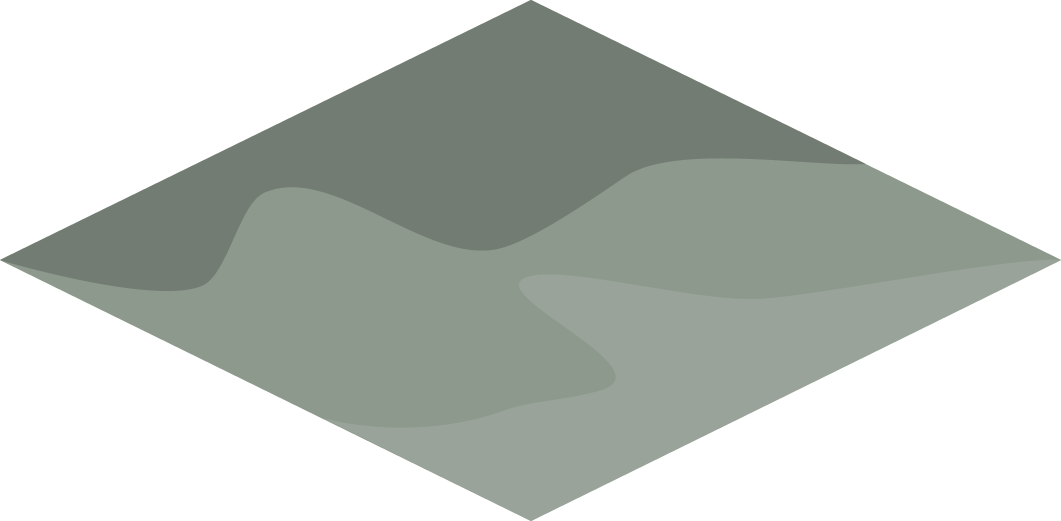
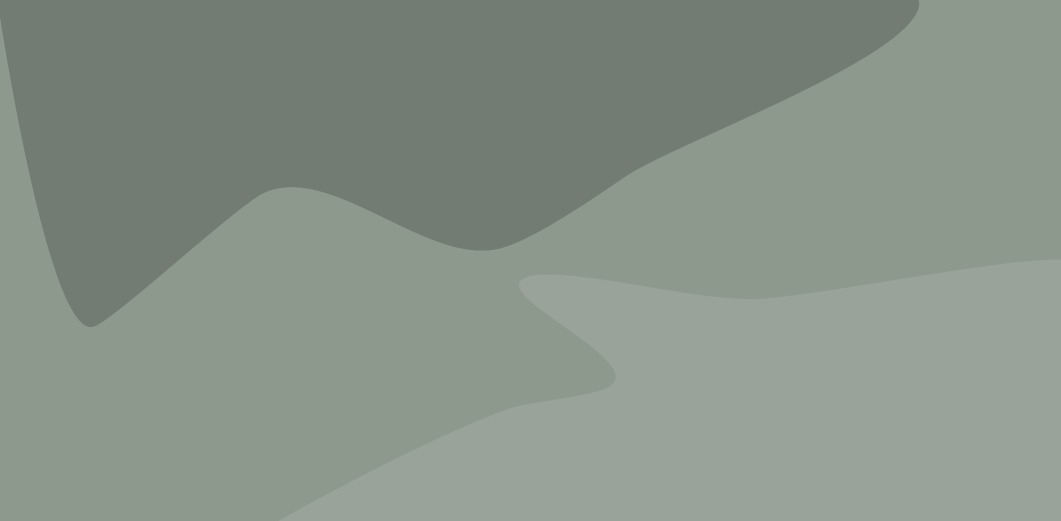
use images without rim for polygons

diff --git a/src/view/View.java b/src/view/View.java
@@ -17,7 +17,6 @@ import javafx.scene.layout.BorderPane;
 import javafx.scene.layout.VBox;
 import javafx.scene.paint.Color;
 import javafx.scene.paint.ImagePattern;
-import javafx.scene.shape.Polygon;
 import javafx.scene.text.Font;
 import javafx.stage.Stage;
 import javafx.util.Duration;
@@ -27,7 +26,6 @@ import model.Tile;
 import model.Vertex;
 
 
-import javax.swing.border.Border;
 import java.util.HashMap;
 import java.util.Map;
 
@@ -61,7 +59,8 @@ public class View {
     private MenuPane menuPane;
 
     private Map<String, Image> imageCache = new HashMap<>();
-    ObjectToImageMapping mapping;
+    private ObjectToImageMapping objectToImageMapping;
+    private Map<String, ImagePattern> imagePatternCache = new HashMap<>();
 
     private double zoomFactor = 1.0;
     private static final double MAX_SCALE = 10.0d;
@@ -73,7 +72,7 @@ public class View {
 
     public View(Stage primaryStage, BasicModel model) {
         this.stage = primaryStage;
-        mapping = new ObjectToImageMapping(model.getGamemode());
+        objectToImageMapping = new ObjectToImageMapping(model.getGamemode());
         fields = model.getFieldGridOfMap();
 
         Label isoCoordLabel = new Label();
@@ -100,7 +99,7 @@ public class View {
     }
 
     public void generateMenuPane(Controller controller){
-        menuPane = new MenuPane(controller, this, canvas, mapping);
+        menuPane = new MenuPane(controller, this, canvas, objectToImageMapping);
         borderPane.setTop(menuPane);
     }
 
@@ -205,6 +204,7 @@ public class View {
                 double deltaX = previousMouseX - mousePosX;
                 double deltaY = previousMouseY - mousePosY;
 
+                //TODO Mit scrollOnMouseDraggedReleased umsetzen bzw Maxi dazu fragen
                 if (Math.abs(deltaX) < 30 && Math.abs(deltaY) < 30 && previousMouseX != -1.0 && previousMouseY != -1.0) {
                     cameraOffsetX += deltaX;
                     cameraOffsetY += deltaY;
@@ -345,21 +345,22 @@ public class View {
         double[] xCoords = {xCoordWest, xCoordSouth, xCoordEast, xCoordNorth};
         double[] yCoords = {yCoordWest, yCoordSouth, yCoordEast, yCoordNorth};
 
-        Image groundImage;
+        ImagePattern imagePattern;
         if(heightWest < 0){
-            groundImage = getResourceForImageName(mapping.getImageNameForBuildingName("water"), tileImageWidth, tileImageHeight);
+            imagePattern = getImagePatternForGroundName("water");
         }
         else {
-            groundImage = getResourceForImageName(mapping.getImageNameForBuildingName("grass"), tileImageWidth, tileImageHeight);
+            imagePattern = getImagePatternForGroundName("grass");
         }
-        ImagePattern imagePattern = new ImagePattern(groundImage);
         gc.setFill(imagePattern);
         gc.fillPolygon(xCoords, yCoords, numberOfPoints);
         gc.strokePolygon(xCoords, yCoords, numberOfPoints);
 
-//        gc.strokeText("N: "+heightNorth+" E "+heightEast+" S "+heightSouth+" W "+heightWest, xCoordOnCanvas, yCoordOnCanvas);
+        gc.strokeText("N: "+heightNorth+" E "+heightEast+" S "+heightSouth+" W "+heightWest, xCoordOnCanvas, yCoordOnCanvas);
         gc.setFill(Color.BLACK);
 //        gc.setStroke(Color.BLACK);
+
+        //TODO Das Tile 0,0 ganz links wird manchmal je nach Position komisch angezeigt
 
     }
 
@@ -367,7 +368,7 @@ public class View {
      * Speichert die Verhältnisse von Höhe und Breite für alle Bilder in einer Map
      */
     public void storeImageRatios(){
-        for(String name : mapping.getImageNames()){
+        for(String name : objectToImageMapping.getImageNames()){
             Image r = getResourceForImageName(name);
             double ratio = r.getHeight() / r.getWidth();
             imageNameToImageRatio.put(name, ratio);
@@ -388,7 +389,7 @@ public class View {
     public void drawBuildingOverMoreTiles(Tile tile, Building building, int row, int column) {
         if (tile.isBuildingOrigin()) {
             String buildingName = building.getBuildingName();
-            String name = mapping.getImageNameForBuildingName(buildingName);
+            String name = objectToImageMapping.getImageNameForObjectName(buildingName);
             double ratio = imageNameToImageRatio.get(name);
 
 //            double imageWidth = tileWidth + (tileWidth * 0.5) * (building.getDepth() + building.getWidth() - 2);
@@ -406,6 +407,27 @@ public class View {
 
             //TODO Da gebäude von ihrem Ursprungstile gezeichnet werden, überlappen sie Bäume aus reihen weiter oben,
             // die eigentlich das Gebäude überlappen sollten
+        }
+    }
+
+    /**
+     * Gibt ein ImagePattern für den Namen des Untergrunds zurück, z.B. grass
+     * Um Performance-Probleme zu lösen, werden die imagePatterns in einem Cache gespeichert und wenn möglich
+     * wiederverwendet. Der Cache ist mit einer Map umgesetzt.
+     * @param groundName
+     * @return
+     */
+    private ImagePattern getImagePatternForGroundName(String groundName){
+        ImagePattern cachedPattern = imagePatternCache.get(groundName);
+        if(cachedPattern != null){
+            return cachedPattern;
+        }
+        else{
+            String imageName = objectToImageMapping.getImageNameForObjectName(groundName);
+            Image image = getResourceForImageName(imageName);
+            ImagePattern newPattern = new ImagePattern(image);
+            imagePatternCache.put(groundName, newPattern);
+            return newPattern;
         }
     }
 
@@ -429,7 +451,7 @@ public class View {
             } else {
                 buildingName = field.getBuilding().getBuildingName();
             }
-            name = mapping.getImageNameForBuildingName(buildingName);
+            name = objectToImageMapping.getImageNameForObjectName(buildingName);
         }
 
         double ratio = imageNameToImageRatio.get(name);
@@ -450,7 +472,7 @@ public class View {
         String buildingName = "grass";;
         if (column < 0 || row < 0 || column >= mapWidth || row >= mapDepth) name = "black";
         else {
-            name = mapping.getImageNameForBuildingName(buildingName);
+            name = objectToImageMapping.getImageNameForObjectName(buildingName);
         }
 
         double ratio = imageNameToImageRatio.get(name);
@@ -618,7 +640,7 @@ public class View {
         DoubleProperty x  = new SimpleDoubleProperty();
         DoubleProperty y  = new SimpleDoubleProperty();
 
-        String name = mapping.getImageNameForBuildingName("car-sw");
+        String name = objectToImageMapping.getImageNameForObjectName("car-sw");
 
         Point2D zeroPointAtStart = moveCoordinates(0,0);
 

diff --git a/src/view/MenuPane.java b/src/view/MenuPane.java
@@ -16,7 +16,6 @@ import model.*;
 
 import java.util.ArrayList;
 import java.util.List;
-import java.util.Map;
 import java.util.Set;
 
 public class MenuPane extends AnchorPane {
@@ -89,7 +88,7 @@ public class MenuPane extends AnchorPane {
             for (Building building : buildings) {
 
                 //TODO Wenn alle Grafiken fertig und eingebunden sind, sollten die zwei folgenden Zeilen gelöscht werden
-                String imageName = mapping.getImageNameForBuildingName(building.getBuildingName());
+                String imageName = mapping.getImageNameForObjectName(building.getBuildingName());
                 if (imageName == null) continue;
                 ImageView imageView = imageViewWithLayout(building);
                 container.getChildren().add(imageView);
@@ -116,7 +115,7 @@ public class MenuPane extends AnchorPane {
      * @return
      */
     private ImageView imageViewWithLayout(Building building) {
-        String imageName = mapping.getImageNameForBuildingName(building.getBuildingName());
+        String imageName = mapping.getImageNameForObjectName(building.getBuildingName());
         Image image = view.getResourceForImageName(imageName);
         ImageView imageView = new ImageView(image);
         imageView.setPreserveRatio(true);
@@ -146,7 +145,7 @@ public class MenuPane extends AnchorPane {
             return isoCoord;
         }
         if (controller.canPlaceBuildingAtPlaceInMapGrid(xCoord, yCoord, selectedBuilding)) {
-            String imageName = mapping.getImageNameForBuildingName(selectedBuilding.getBuildingName());
+            String imageName = mapping.getImageNameForObjectName(selectedBuilding.getBuildingName());
             if(selectedBuilding.getWidth() > 1 || selectedBuilding.getDepth() > 1){
                 Tile tile = controller.getTileOfMapTileGrid(xCoord, yCoord);
                 tile.setBuildingOrigin(true);

diff --git a/src/model/MapGenerator.java b/src/model/MapGenerator.java
@@ -333,25 +333,28 @@ public class MapGenerator {
             maxHeight = heightOfEdgeBefore + 1;
         }
 
+        //TODO Wenn man die Wahrscheinlichkeiten probabilityMinHeight und probabilityMaxHeight verkleinert, treten sehr
+        //komische Probleme auf. Was ist da los?
+
         int heightOfNextCorner;
         if(heightOfEdgeBefore > 0){
-            int probabilityMinHeight = 50;
+            int probabilityMinHeight = 40;
             int randomNumber = r.nextInt(100)+1;
             if(randomNumber < probabilityMinHeight){
                 heightOfNextCorner = minHeight;
             }
             else {
-                heightOfNextCorner = r.nextInt(maxHeight - minHeight + 1) + minHeight;
+                heightOfNextCorner = r.nextInt(maxHeight - minHeight + 2) + minHeight;
             }
         }
         else if (heightOfEdgeBefore < 0) {
-            int probabilityMaxHeight = 50;
+            int probabilityMaxHeight = 40;
             int randomNumber = r.nextInt(100)+1;
             if(randomNumber < probabilityMaxHeight){
                 heightOfNextCorner = maxHeight;
             }
             else {
-                heightOfNextCorner = r.nextInt(maxHeight - minHeight + 1) + minHeight;
+                heightOfNextCorner = r.nextInt(maxHeight - minHeight) + minHeight;
             }
         }
         else {

diff --git a/src/model/JSONParser.java b/src/model/JSONParser.java
@@ -145,7 +145,7 @@ public class JSONParser {
                 gamemode = handleContentAsString(map, children[i]);
             }
             // mapModel wird aus eingelesenen Werten erzeugt und dem model hinzugefügt
-            MapModel mapModel = new MapModel(width, depth, model);
+            MapModel mapModel = new MapModel(30, 30, model);
             mapModel.setMapgen(mapgen);
             // mapModel und eingelesener gamemode werden dem model hinzugefügt
             model.setMap(mapModel);

diff --git a/src/view/ObjectToImageMapping.java b/src/view/ObjectToImageMapping.java
@@ -18,7 +18,7 @@ public class ObjectToImageMapping {
         }
     }
 
-    public String getImageNameForBuildingName(String buildingName){
+    public String getImageNameForObjectName(String buildingName){
         return mapping.get(buildingName);
     }
 
